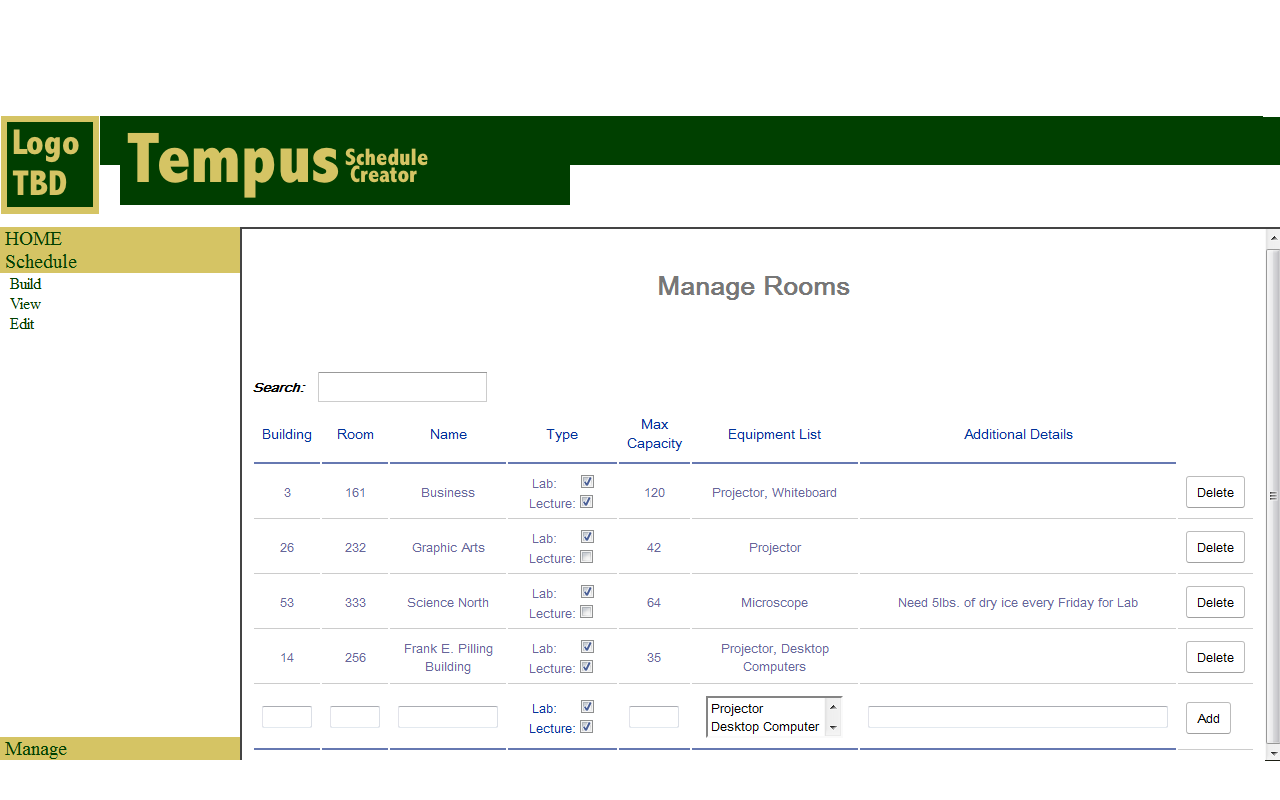
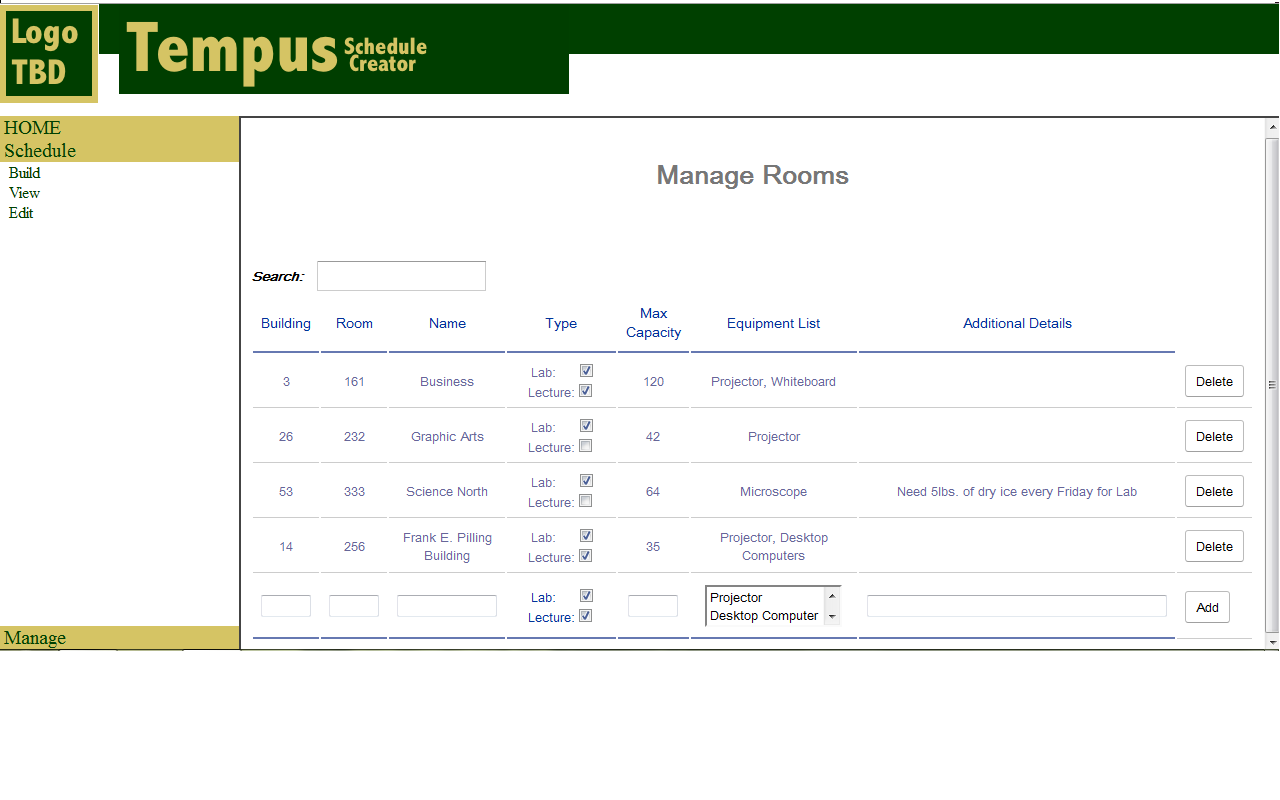
git-svn-id: svn+ssh://scheduler.csc.calpoly.edu/repo@441 13b268f7-8392-4c9d-bc7d-1e80a86bc2f9

diff --git a/requirements/walkthru/room-manage.html b/requirements/walkthru/room-manage.html
@@ -6,7 +6,7 @@
 <h2 align="center">Manage Rooms </h2>
 </td></tr>
 <tr><td>
-<img src="../images/database-room-main.png"  width="1024">
+<img src="../images/database-room-main.png" width="1015">
 </td></tr>
 <tr><td>
 <table width=200 align="center">
